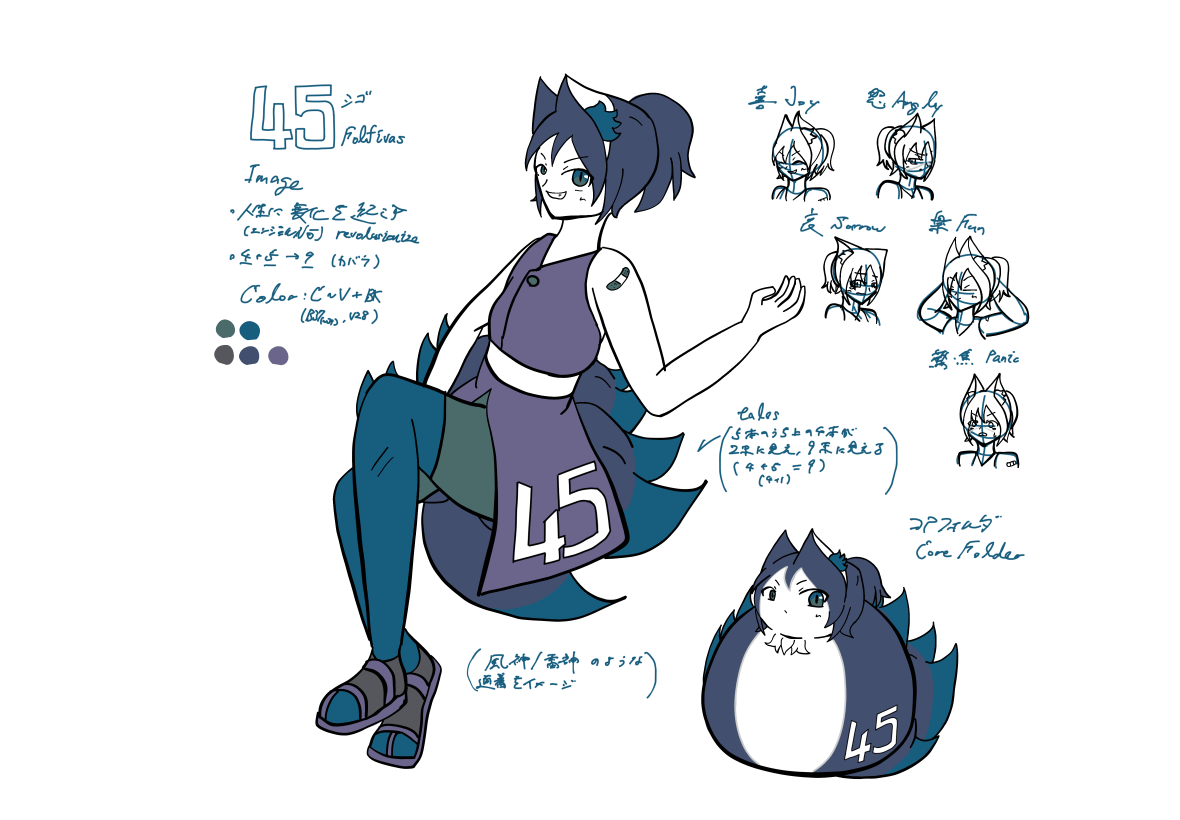
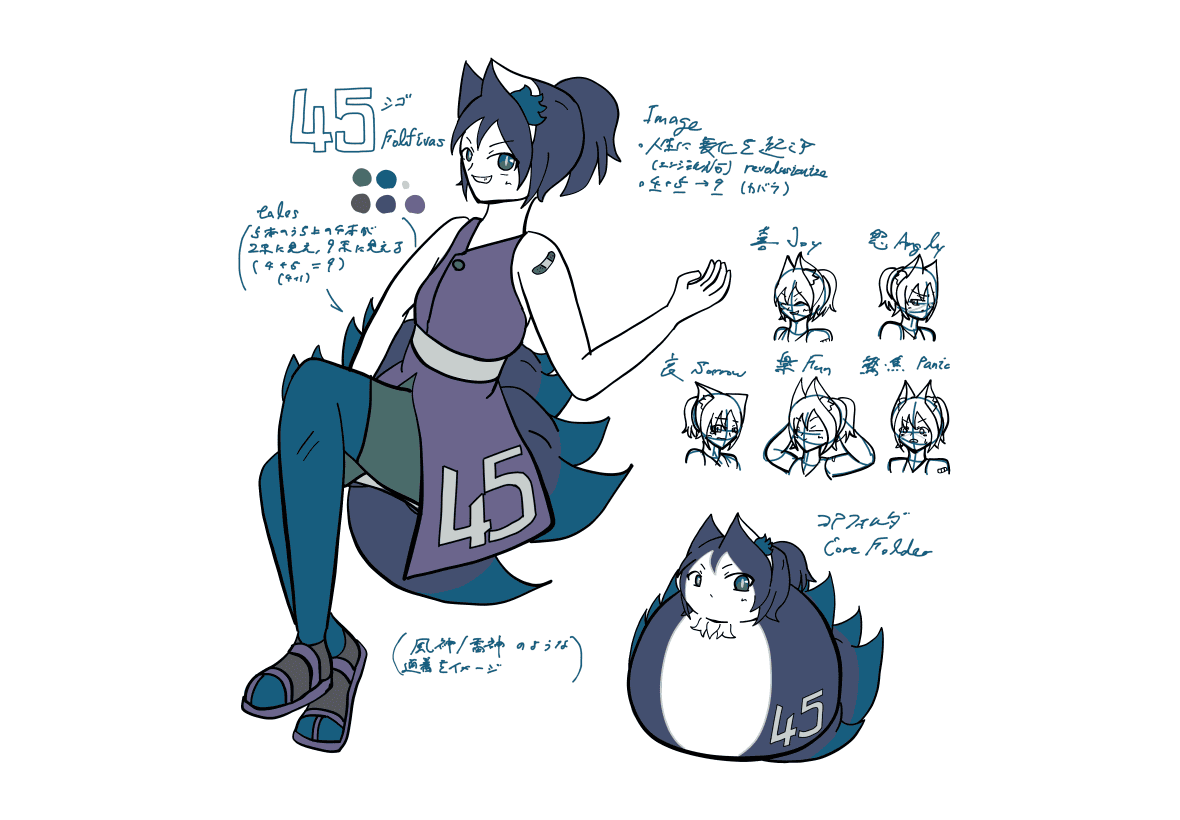
45(シゴ)を更新
- 作画更新
- キャラ設定の文面を推敲

Changed region(s): [[0.1831, 0.061, 0.8847, 0.9756], [0.7322, 0.0915, 0.7932, 0.2439]]

diff --git a/characters/character45.html b/characters/character45.html
@@ -25,7 +25,7 @@
 			稲妻を落とす雷神のように相手に衝動を与え、風を送る風神のように相手を奮い立たせる"加護"を持つ。<br>
 			これにより、変化を起こすことを必要としている多くの主人を後押ししている。<br>
 			もちろんそれはおおむね攻撃的な目的ではないので、彼(女)が従事した主人が愛と勇気をもった「正義の味方」に成長すると定評。<br>
-			ただ最も人間関係のトラブルに遭った1人とも…
+			ただ、本人は平穏とした生き方を好んでおり…
 			<template #callingme>わっち</template>
 			<template #callingyou>主人</template>
 			<template #gender>中性</template>
